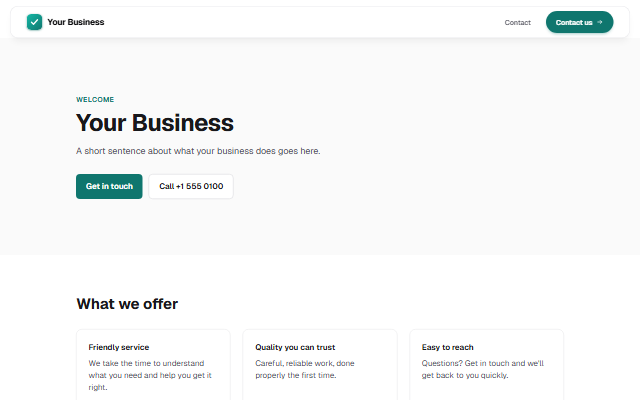
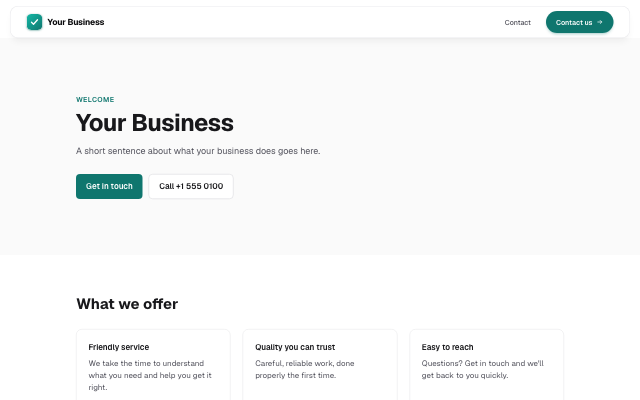
Template gallery previews rebuilt from the current template

diff --git a/server/kits/simple/preview/assets/js/agent.js b/server/kits/simple/preview/assets/js/agent.js
@@ -727,6 +727,73 @@
     flush(true);
   });
 
+  // Phones and tablets have no pointer to rest on. There, scrolling stopping with a link or button
+  // in the middle of the screen counts as resting on it (the same rests, sent the same way, so the
+  // owner's goals and pace work alike), else the section there; and a quick flick back towards the
+  // top after a while on the page counts as about to leave.
+  var TOUCH = Boolean(window.matchMedia && window.matchMedia('(hover: none), (pointer: coarse)').matches);
+  var STILL_MS = 600;
+  function inFocus() {
+    var mid = window.innerHeight / 2;
+    var band = window.innerHeight * 0.3;
+    var best = null;
+    var bestDistance = Infinity;
+    var list = document.querySelectorAll(TARGETS);
+    for (var i = 0; i < list.length && i < 600; i++) {
+      var el = list[i];
+      if (inWidget(el) || (el.closest && el.closest('header,nav,footer,form,[role="navigation"]'))) continue;
+      var r = el.getBoundingClientRect();
+      if (!r.width || !r.height || r.bottom <= 0 || r.top >= window.innerHeight) continue;
+      var distance = Math.abs((r.top + r.bottom) / 2 - mid);
+      if (distance < band && distance < bestDistance) {
+        best = el;
+        bestDistance = distance;
+      }
+    }
+    if (best) return thingOf(best);
+    var centre = document.elementFromPoint(window.innerWidth / 2, mid);
+    return centre && !inWidget(centre) ? thingOf(centre) : null;
+  }
+  if (TOUCH) {
+    var still = null;
+    var settle = function () {
+      still = null;
+      if (document.visibilityState === 'hidden') return;
+      var thing = inFocus();
+      if (!thing || (hovering && hovering.thing.el === thing.el)) return;
+      endHover();
+      hovering = { thing: thing, at: Date.now(), sent: 0, timer: null };
+      if (thing.x !== 'section' && state.suggested < MAX_SUGGESTIONS) nextCheckpoint();
+    };
+    var lastY = window.scrollY;
+    var lastAt = Date.now();
+    var upwards = 0;
+    window.addEventListener(
+      'scroll',
+      function () {
+        // Moving again: what was in the middle of the screen isn't being looked at any more.
+        if (hovering) endHover();
+        clearTimeout(still);
+        still = setTimeout(settle, STILL_MS);
+        var now = Date.now();
+        var moved = window.scrollY - lastY;
+        var speed = Math.abs(moved) / Math.max(1, now - lastAt);
+        if (moved < 0 && speed > 2) upwards -= moved;
+        else if (moved > 0) upwards = 0;
+        lastY = window.scrollY;
+        lastAt = now;
+        if (!left && upwards > window.innerHeight * 1.5 && window.scrollY < window.innerHeight && secondsOnPage() >= 10) {
+          left = true;
+          queue.push({ k: 'x' });
+          flush(true);
+        }
+      },
+      { passive: true },
+    );
+    // The first screen counts too, once it has had a moment to be read.
+    setTimeout(settle, 1500);
+  }
+
   var sending = false;
   // Something to send arrived while a request was out: sent as soon as that one comes back.
   var again = false;
